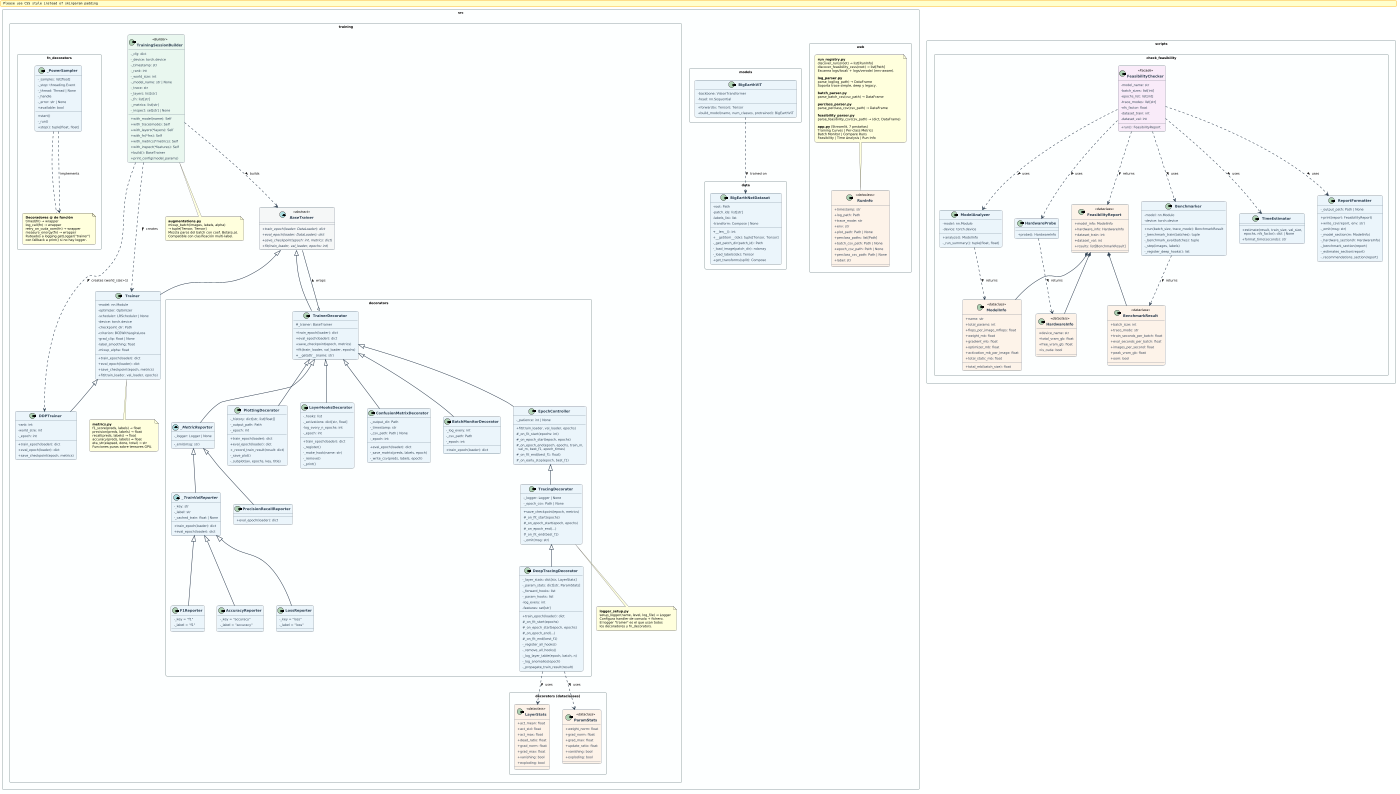
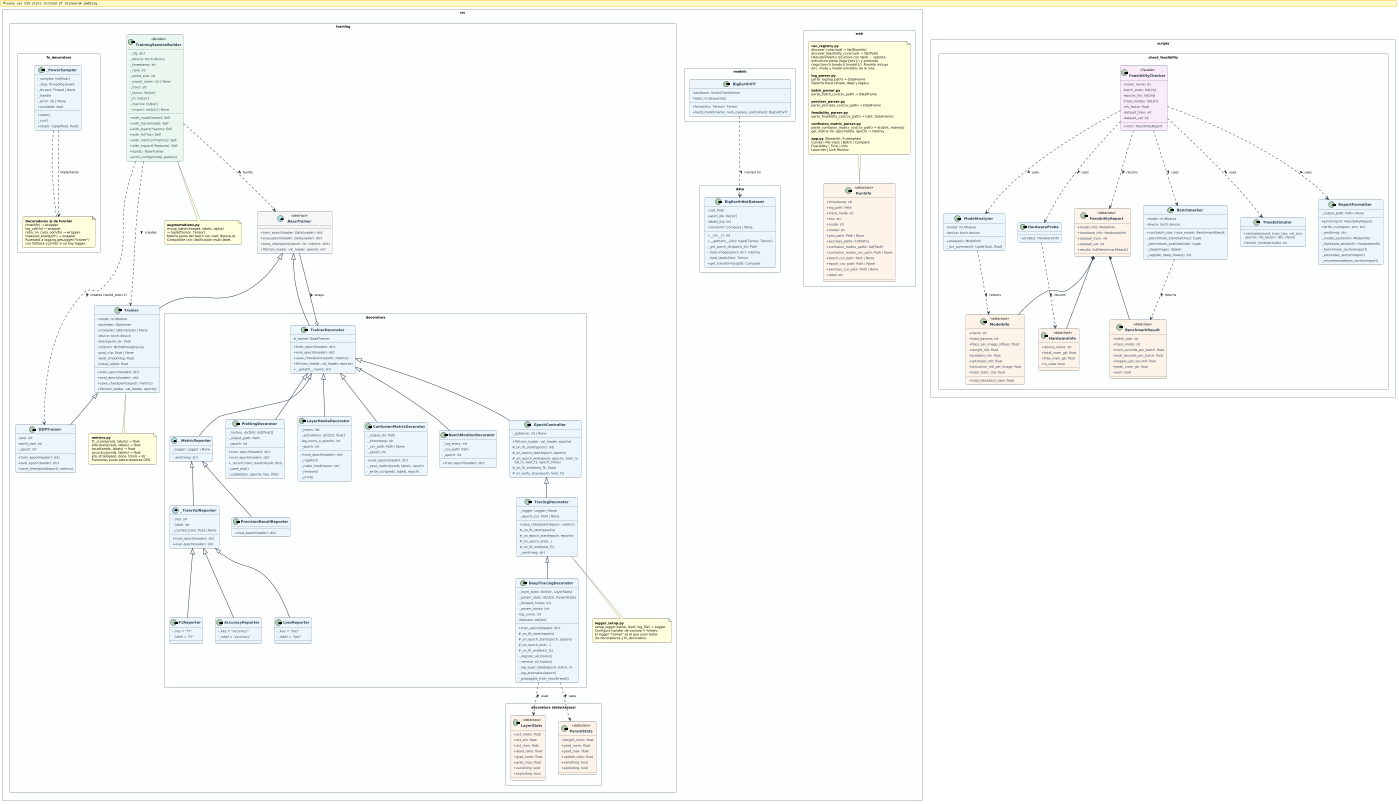
docs: update CLAUDE.md and class diagram to v3 state (27/05/26)
- CLAUDE.md: artifact structure now shows env/mode/model depth; web
  dashboard updated to 9 tabs; completed section adds web v3, folder
  restructuring and diagram v3 entries; tail command updated
- class_diagram.puml: RunInfo gains mode/model/confusion_matrix fields;
  src.web note updated to 9 tabs + confusion_matrix_parser + rglob note
- class_diagram.svg: new SVG render generated from updated PUML
- class_diagram.png: regenerated to match

diff --git a/CLAUDE.md b/CLAUDE.md
@@ -394,22 +394,39 @@ La tabla de estimaciones muestra **train/epoch**, **eval/epoch**, **total/epoch*
 
 ## Estructura de artefactos
 
-Logs, plots y checkpoints se separan por entorno para no mezclar ejecuciones locales y de clúster:
+Los artefactos se organizan por entorno (`local`/`verode`), modo (`single`/`ddp`) y modelo:
 
 ```
 logs/
-  local/        # RTX 3060 Ti — commiteados en git (excluye *.csv grandes)
-  verode/       # V100 Verode — commiteados en git
+  local/
+    single/{model}/   # train_*.log, epoch_metrics_*.csv, perclass_metrics_*.csv,
+                      # batch_metrics_*.csv, confusion_matrix_*.csv
+    ddp/{model}/      # ídem para runs distribuidos
+    feasibility/      # feasibility_*.log + feasibility_*.csv
+  verode/
+    single/{model}/
+    ddp/{model}/
+    feasibility/
 plots/
   local/
+    single/{model}/   # training_*.png, perclass_*.png, confusion_matrix_*.png
+    ddp/{model}/
   verode/
+    single/{model}/
+    ddp/{model}/
 checkpoints/
-  local/        # excluidos de git (*.pt)
-  verode/       # excluidos de git (*.pt)
+  local/
+    single/{model}/   # excluidos de git (*.pt)
+    ddp/{model}/
+  verode/
+    single/{model}/
+    ddp/{model}/
 ```
 
-El builder lee `output.env` del config (`"local"` o `"verode"`) y escribe en el subdirectorio correcto.
-Los ficheros se nombran con formato **DDMMYYYY_HHMMSS** (desde housekeeping, mayo 2026).
+- El builder lee `output.env` del config y deduce `mode`/`model` automáticamente.
+- Los runs anteriores a mayo 2026 usan la estructura plana (`logs/{env}/`) — el dashboard los descubre igual vía `rglob`.
+- Los ficheros se nombran con formato **DDMMYYYY_HHMMSS**.
+- **git:** todos los logs y CSVs bajo `logs/` se commitean (los `*.pt` de checkpoints, no).
 
 ---
 
@@ -663,17 +680,19 @@ Dependencias principales: `torch`, `timm`, `torchvision`, `torchinfo`, `tqdm`, `
 
 ## Dashboard web
 
-`src/web/` — interfaz Streamlit para visualizar resultados de entrenamiento (no lanza el training).
+`src/web/` — interfaz Streamlit profesional para gestionar y analizar el proyecto de principio a fin.
 
 ```
 src/web/
   __init__.py
-  app.py                # Streamlit entrypoint — 7 tabs
-  run_registry.py       # descubre runs en logs/ y plots/ por timestamp; RunInfo con epoch/perclass CSV
-  log_parser.py         # parsea logs --trace simple y --trace deep → DataFrame (fallback)
-  batch_parser.py       # lee batch_metrics_*.csv → DataFrame por batch
-  perclass_parser.py    # lee perclass_metrics_*.csv → DataFrame (nuevas métricas por clase)
-  feasibility_parser.py # lee feasibility_*.csv → (metadata dict, benchmark DataFrame)
+  app.py                    # Streamlit entrypoint — 9 tabs
+  run_registry.py           # descubre runs con rglob (estructura plana y profunda);
+                            # RunInfo con env, mode, model, epoch/perclass/batch CSV paths
+  log_parser.py             # parsea logs --trace simple y --trace deep → DataFrame (fallback)
+  batch_parser.py           # lee batch_metrics_*.csv → DataFrame por batch
+  perclass_parser.py        # lee perclass_metrics_*.csv → DataFrame por clase
+  feasibility_parser.py     # lee feasibility_*.csv → (metadata dict, benchmark DataFrame)
+  confusion_matrix_parser.py # lee confusion_matrix_*.csv → matriz numpy por epoch
 ```
 
 ### Arranque
@@ -687,15 +706,18 @@ uv run streamlit run src/web/app.py
 
 | Tab | Contenido |
 |-----|-----------|
-| Training Curves | CSV-first: lee `epoch_metrics_*.csv`; fallback a log_parser para runs antiguos |
-| Per-class Metrics | Plotly interactivo por clase desde `perclass_metrics_*.csv`; fallback a PNGs |
-| Batch Monitor | Running loss intra-epoch por batch (requiere `--layers batch-monitor`) |
-| Compare Runs | Superpone hasta 4 runs en el mismo gráfico |
-| Feasibility | Tabla de benchmarks, gráfico de throughput, formulario para lanzar feasibility check |
-| Time Analysis | Tiempo real por epoch vs estimación del feasibility checker |
-| Run Info | Metadatos, tiempos, log crudo (200 primeras líneas) |
+| Curves | Curvas de F1/loss/accuracy; metric cards; epoch time chart; descarga CSV |
+| Per-class | Tabla ranking de clases + tendencia multi-clase + confusion matrix (normalizada/absoluta) |
+| Batch | Running loss por batch con moving average y detección de picos |
+| Compare | Superpone hasta 4 runs; tabla resumen comparativa |
+| Feasibility | Benchmark VRAM/throughput; estimaciones; lanzar feasibility check desde la web |
+| Time | Tiempo real por epoch vs estimación; tendencia lineal; warmup detection |
+| Info | Config YAML, anomaly log, dataset info, log completo con buscador |
+| Launcher | Lanzar entrenamientos single-GPU o feasibility check con output en tiempo real |
+| Live | Monitor en vivo: epoch progress, GPU usage, últimas líneas del log, auto-refresh |
 
-Escanea `logs/local/` y `logs/verode/` más el root legacy. Compatible con `--trace simple`, `--trace deep` y logs legacy.
+Descubre runs recursivamente en toda la estructura `logs/` (tanto flat legacy como profunda env/mode/model).
+Compatible con `--trace simple`, `--trace deep` y logs legacy.
 
 ---
 
@@ -737,10 +759,8 @@ git remote set-url origin [email redacted]:alerguezrojas/tfg-distributed-transform
 - [x] Flags `--trace / --layers / --fn / --metrics / --inspect / --model` en script de entrenamiento
 - [x] Inspección modular: `--inspect model-summary batch-table grad-monitor anomalies`
 - [x] Early stopping: `patience` configurable en `EpochController`
-- [x] Log con timestamp (DDMMYYYY) a fichero en `logs/{env}/` + gráficas PNG en `plots/{env}/`
-- [x] `check_feasibility.py`: benchmark train+eval por separado, `--nfs-factor`, auto-save log
-- [x] Dashboard web Streamlit: `src/web/` con 5 tabs (curvas, por clase, batch, comparar, info)
-  - Escanea `logs/local/` y `logs/verode/`, soporta formato simple y deep, y logs legacy
+- [x] Log con timestamp (DDMMYYYY) a fichero en `logs/{env}/{mode}/{model}/` + gráficas PNG en `plots/{env}/{mode}/{model}/`
+- [x] `check_feasibility.py`: benchmark train+eval por separado, `--nfs-factor`, auto-save log + CSV en `logs/{env}/feasibility/`
 - [x] Entrenamiento local: 30 epochs, Val F1=0.6586 (01-02/05/26) → `logs/local/train_legacy.log`
 - [x] Test local stack completo: 1 epoch vit_tiny, Val F1=0.4457 (11/05/26)
 - [x] Smoke test v3 local: 1 epoch vit_tiny, Val F1=0.4019, threshold óptimo=0.30 (13/05/26)
@@ -756,6 +776,9 @@ git remote set-url origin [email redacted]:alerguezrojas/tfg-distributed-transform
 - [x] **Entrenamiento distribuido DDP (20/05/26):** `DDPTrainer`, `scripts/train_ddp.py`, `configs/train_ddp_verode.yaml`; smoke test local 1 proceso completado sin errores (Val F1=0.4353) → `logs/local/train_20260520_221708.log`
 - [x] **Web dashboard v2 (20/05/26):** 7 tabs, CSV-driven (epoch_metrics, perclass_metrics, feasibility), Plotly interactivo por clase, pestaña Feasibility, pestaña Time Analysis; `perclass_parser.py`, `feasibility_parser.py`; `check_feasibility.py` añade `--model` y escribe CSV
 - [x] Diagrama de clases v2: DDPTrainer, TracingDecorator con epoch_csv, ConfusionMatrixDecorator con write_csv, ReportFormatter con write_csv, RunInfo con epoch/perclass csv paths, web con 7 tabs (20/05/26)
+- [x] **Web dashboard v3 (27/05/26):** 9 tabs, interfaz profesional sin emojis; Launcher (lanzar entrenamientos desde la web con output en tiempo real); Live Monitor (auto-refresh, GPU via nvidia-smi, últimas líneas del log); mejoras en todas las pestañas existentes (moving average, comparativa multi-run, anomaly detection, etc.); `confusion_matrix_parser.py`
+- [x] **Gestión de carpetas y gitignore (27/05/26):** estructura `{env}/{mode}/{model}/` para logs, plots y checkpoints; feasibility en `{env}/feasibility/`; `run_registry.py` con rglob; `RunInfo` añade `mode` y `model`; `.gitignore` corregido — todos los CSVs y logs bajo `logs/` se commitean
+- [x] Diagrama de clases v3: RunInfo con mode/model, web con 9 tabs, confusion_matrix_parser (27/05/26)
 
 ### Pendiente
 - [ ] DDP real en Verode con 2 GPUs: `torchrun --nproc_per_node=2` y medir speedup vs single-GPU
@@ -799,11 +822,11 @@ uv run python scripts/train_single_gpu.py --config configs/train_v3.yaml --trace
 torchrun --nproc_per_node=1 scripts/train_ddp.py \
   --model vit_tiny_patch16_224 --epochs 1 --config configs/train.yaml --trace simple
 
-# Dashboard web (7 tabs)
+# Dashboard web (9 tabs)
 uv run streamlit run src/web/app.py
 
-# Ver log en tiempo real
-tail -f logs/local/train_*.log
+# Ver log en tiempo real (ajusta la ruta al modelo concreto)
+tail -f logs/local/single/vit_base_patch16_224/train_*.log
 ```
 
 ### Clúster VERODE